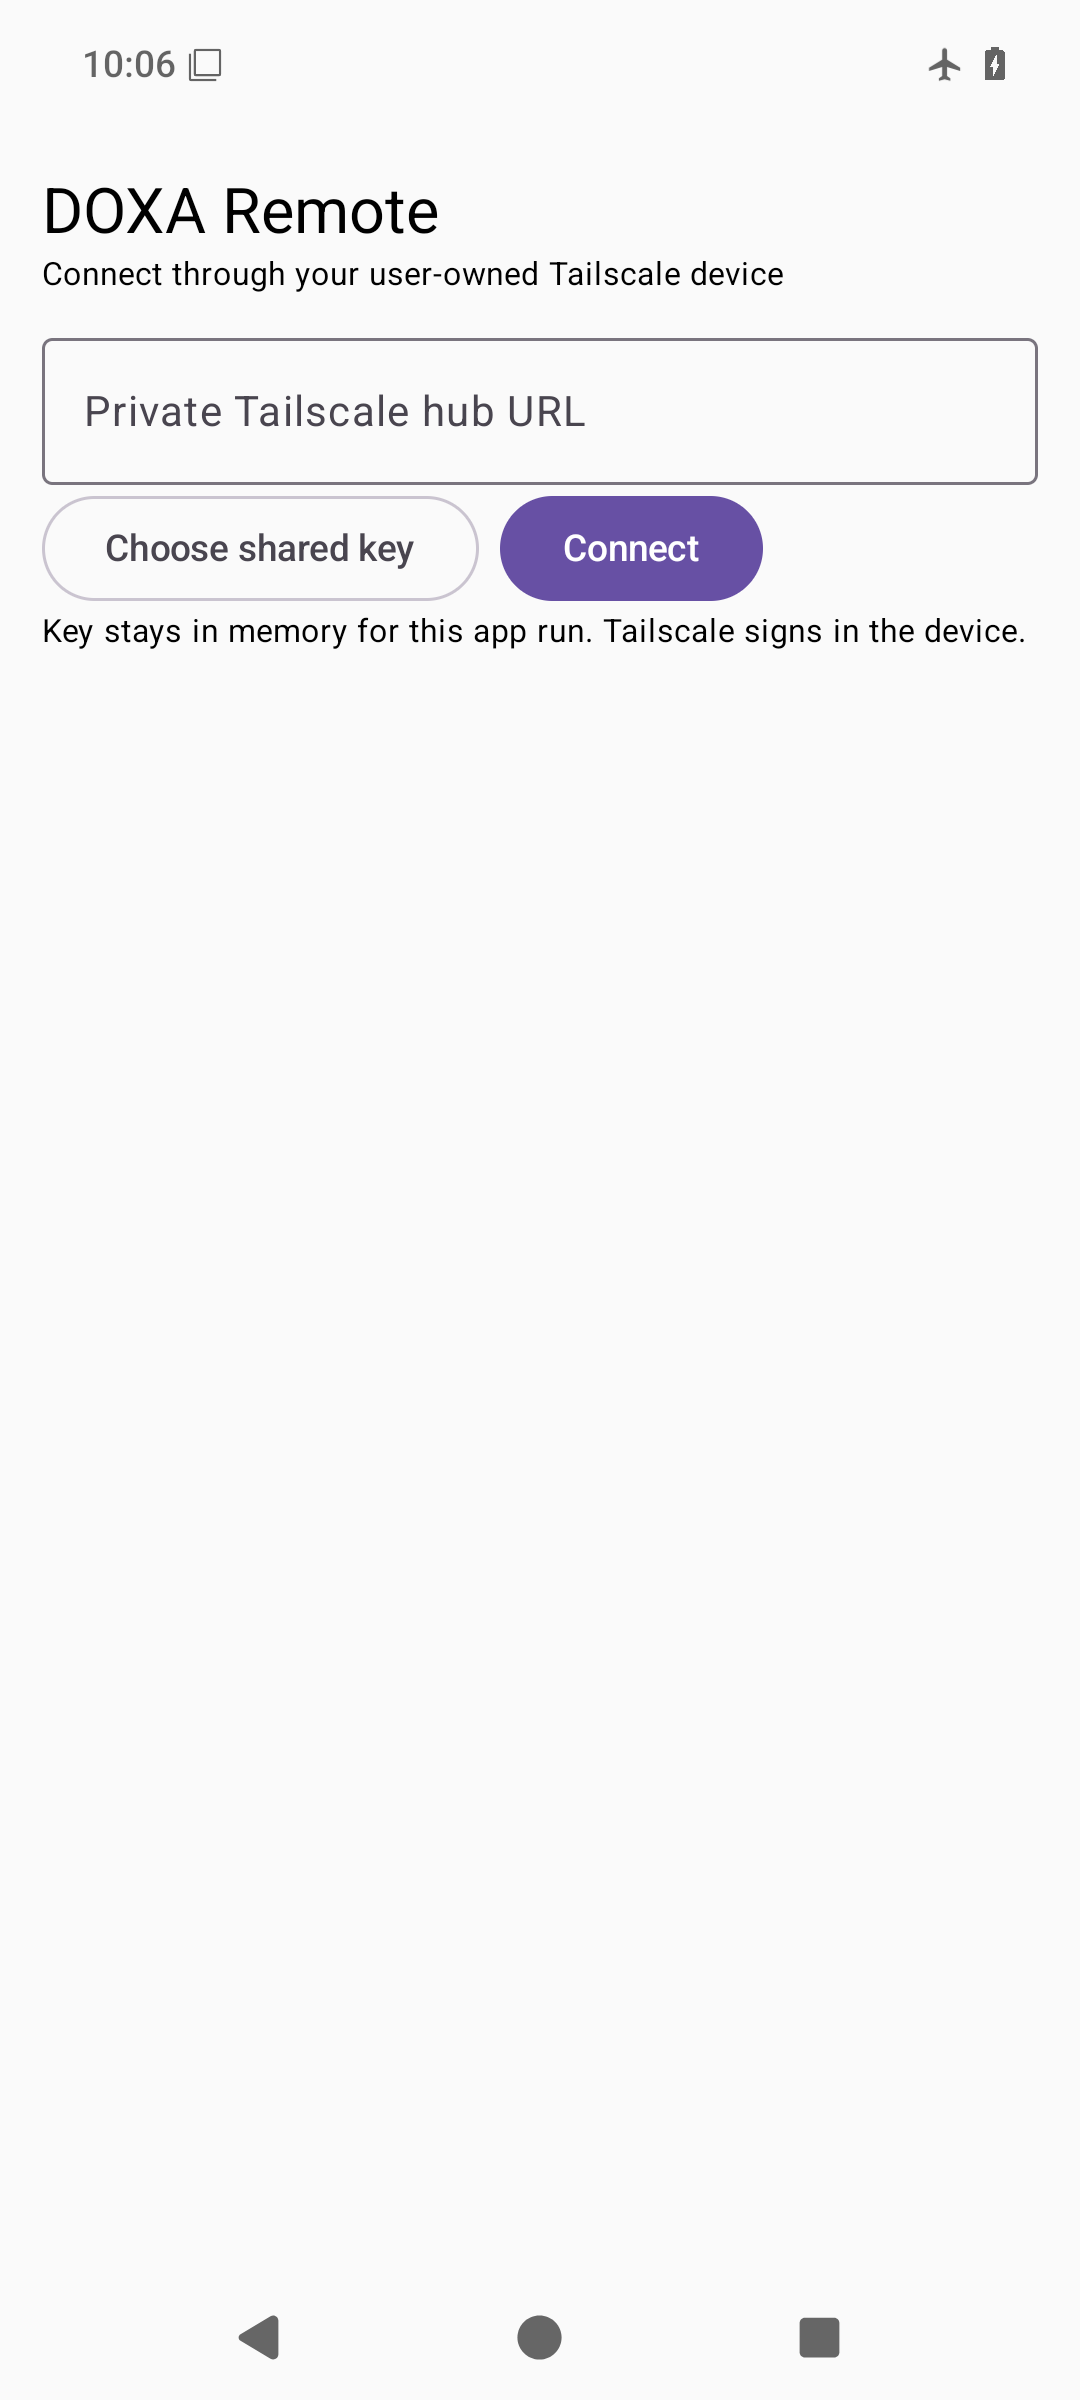
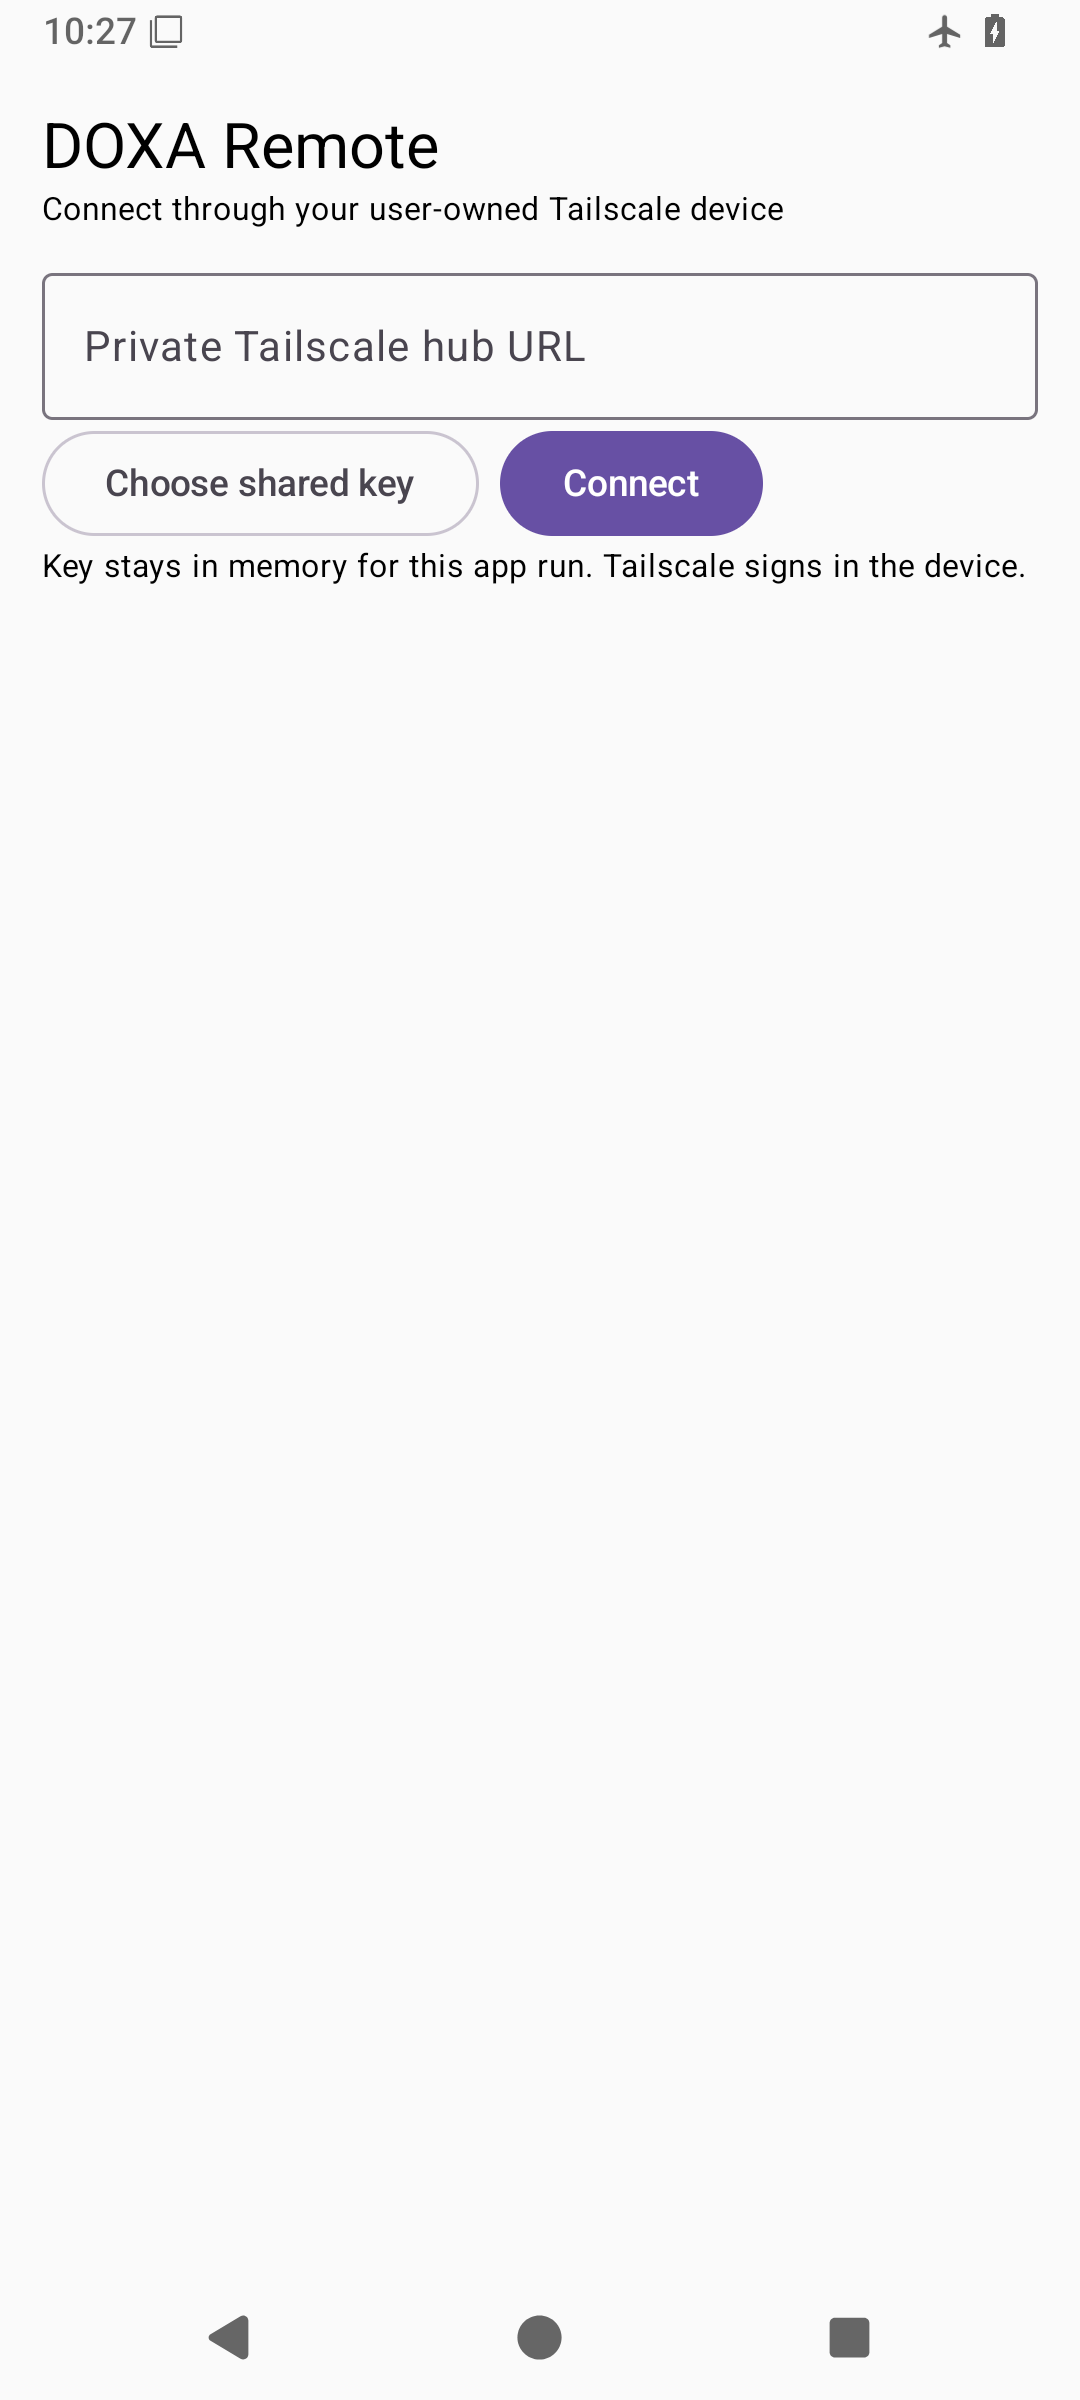
fix(android): isolate and verify screenshot captures

diff --git a/android-client/README.md b/android-client/README.md
@@ -19,23 +19,21 @@ view requires a user-owned device and private hub.
 <img src="../assets/shots/android-remote-beta28-recovery-fence-offline.png" alt="Synthetic uncertain-write recovery fence with acknowledgment disabled" width="320">
 
 To reproduce the home capture, install the Android 36 default x86_64 system
-image, build the unconfigured APK, and start a fresh Pixel 6 emulator. The
-capture script turns on airplane mode, disables Wi-Fi and mobile data, clears
-app storage, verifies the empty URL field, and checks the PNG dimensions. It
-refuses a physical device.
+image and build the unconfigured APK. The capture script creates its own fresh
+Pixel 6 AVD under `TMPDIR`, refuses an occupied emulator port, and checks the
+booted AVD identity and empty third-party app inventory before touching it. It
+then turns on airplane mode, disables Wi-Fi and mobile data, verifies the exact
+connection screen and empty URL, decodes the entire PNG, and deletes the AVD.
+Python Pillow is required for image validation. Set `DOXA_CAPTURE_PORT` to a
+free even emulator port if 5580 is occupied. If the SDK installs command-line
+tools under a versioned directory, set `ANDROID_AVDMANAGER_BIN` to its
+`avdmanager` executable.
 
 ```bash
 export TMPDIR="$HOME/t" ANDROID_HOME=/path/to/android-sdk
-export ANDROID_AVD_HOME="$HOME/.cache/doxa-android-capture/avd"
-mkdir -p "$TMPDIR" "$ANDROID_AVD_HOME"
+mkdir -p "$TMPDIR"
 ./gradlew :app:assembleDebug
-"$ANDROID_HOME/cmdline-tools/latest/bin/avdmanager" create avd \
-  -n doxa-home-offline -k 'system-images;android-36;default;x86_64' \
-  -p "$ANDROID_AVD_HOME/doxa-home-offline.avd" --device pixel_6 --force
-"$ANDROID_HOME/emulator/emulator" -avd doxa-home-offline -port 5580 \
-  -no-window -no-snapshot -no-audio -no-boot-anim -gpu swiftshader_indirect &
-# Wait for emulator-5580 to report sys.boot_completed=1.
-ANDROID_SERIAL=emulator-5580 ../scripts/capture_android_home.sh
+../scripts/capture_android_home.sh
 ```
 
 ## Build and connect
